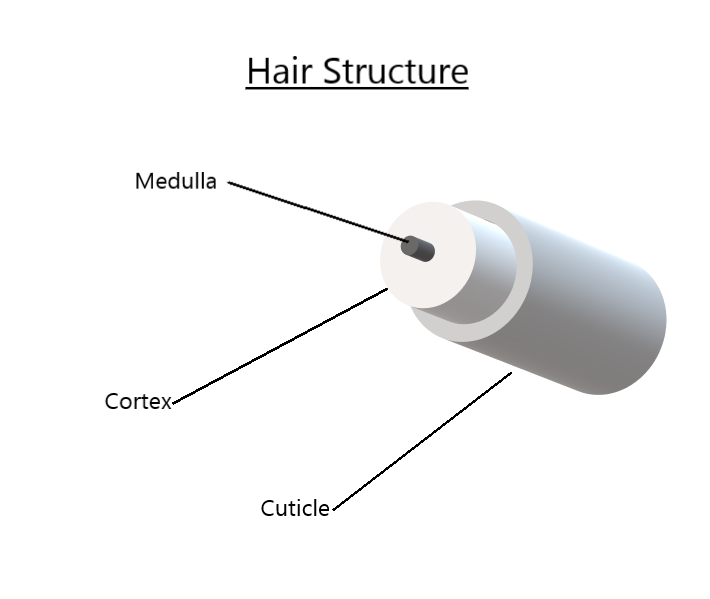
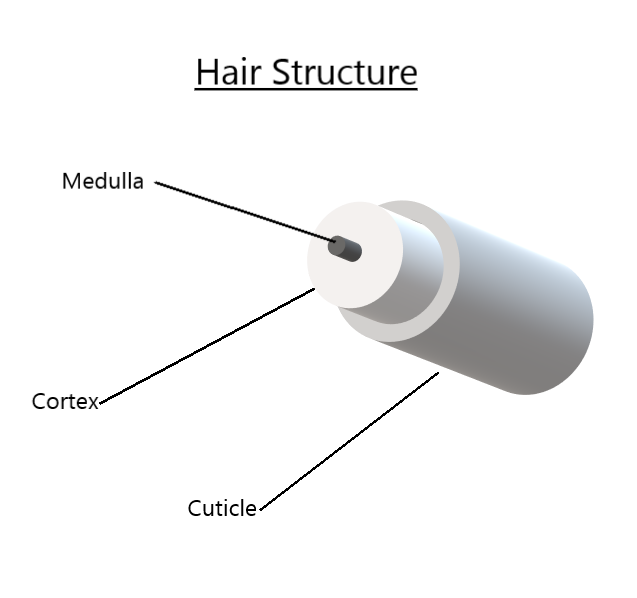
Tidy hair shaft diagram.

diff --git a/science.html b/science.html
@@ -71,31 +71,41 @@
                     <h2>What Hair Is Made Of</h2>
                 </div>
                 <hr class="green" />
-                <div  id="diagram-shaft">
-                    <img src="assets/images/hair-shaft.png" alt="Diagram of hair shaft."/>
-                </div>
-                <div class="">
-                    <p>The shaft of a strand of hair consists of three distinct layers: cuticle, cortex and medulla
-                        (usually).</p>
-                </div>
-                <div class="">
-                    <p>The cuticle is the outside layer, it is made of scale like keratin structures which overlap like
-                        tiles on a roof, keeping the insides nice and safe. When the parts of the cuticle are all laying
-                        flat, nice and tidy, you get shiny tresses! The cuticle naturally becomes brittle over time,
-                        through washing, the elements and styling. Oils can help keep the keratin flexible and prevent
-                        breakage.</p>
-                </div>
-                <div class="">
-                    <p>The cortex is the thickest part of the hair strand, and sits inside the cuticle. The pigments and
-                        proteins which give hair its colour and degree of curl exist here. When colouring or perming it
-                        is this layer which is affected most heavily</p>
-                </div>
-                <div class="">
-                    <p>The medulla is the core of the hair strand, in most hair types. However, in fine fair hair the
-                        medulla sometimes simply doesn't exist! It is not known exactly what the medulla does, or why it
-                        is present in some hair types but not others. It is theorised that the medulla plays a role in
-                        supporting or creating the structure since it most often appears in thicker, darker hair
-                        strands.</p>
+                <div class="row">
+                    <div id="diagram-shaft" class="bottom-space">
+                        <img src="assets/images/hair-shaft.png" alt="Diagram of hair shaft." />
+                    </div>
+                    <div class="">
+                        <p>The shaft of a strand of hair consists of three distinct layers: cuticle, cortex and medulla
+                            (usually).</p>
+                    </div>
+                    <div class="">
+                        <p>The cuticle is the outside layer, it is made of scale like keratin structures which overlap
+                            like
+                            tiles on a roof, keeping the insides nice and safe. When the parts of the cuticle are all
+                            laying
+                            flat, nice and tidy, you get shiny tresses! The cuticle naturally becomes brittle over time,
+                            through washing, the elements and styling. Oils can help keep the keratin flexible and
+                            prevent
+                            breakage.</p>
+                    </div>
+                    <div class="">
+                        <p>The cortex is the thickest part of the hair strand, and sits inside the cuticle. The pigments
+                            and
+                            proteins which give hair its colour and degree of curl exist here. When colouring or perming
+                            it
+                            is this layer which is affected most heavily</p>
+                    </div>
+                    <div class="">
+                        <p>The medulla is the core of the hair strand, in most hair types. However, in fine fair hair
+                            the
+                            medulla sometimes simply doesn't exist! It is not known exactly what the medulla does, or
+                            why it
+                            is present in some hair types but not others. It is theorised that the medulla plays a role
+                            in
+                            supporting or creating the structure since it most often appears in thicker, darker hair
+                            strands.</p>
+                    </div>
                 </div>
             </div>
         </div>

diff --git a/assets/css/style.css b/assets/css/style.css
@@ -339,10 +339,14 @@ nav a:hover {
 
 /*-----------------------------------Body-Science---------------------------*/
 
-#diagram-shaft {
-    width: 100%;
+#diagram-shaft img {
+    width: 80%;
     height: auto;
-    margin: 0 auto;
+    border: 1px solid #696969;
+}
+
+#diagram-shaft {
+    text-align: center;
 }
 
 /*-----------------------------------Footer---------------------------------*/
